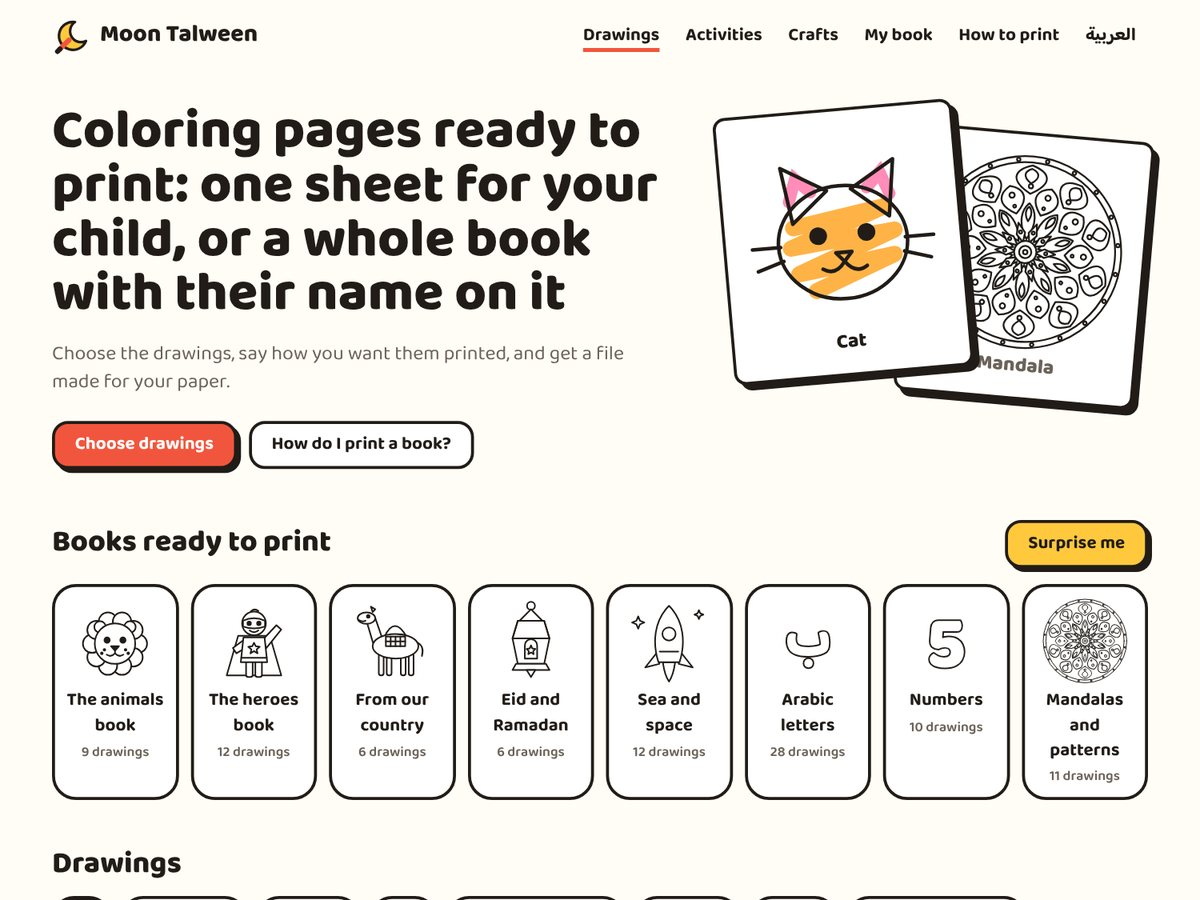
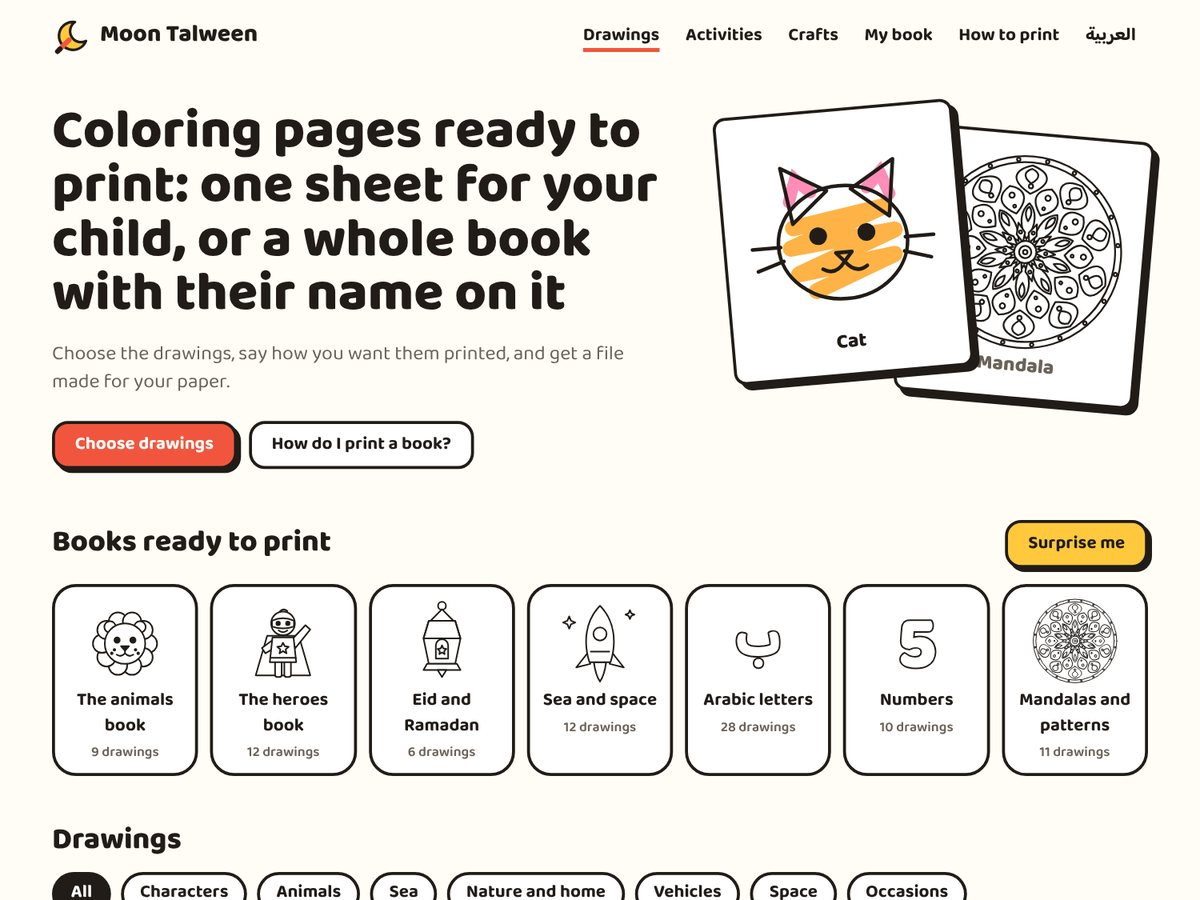
Update the Moon Talween card after a group was removed
Claude-Session: https://claude.ai/code/session_01TkRPnwSefusrgepjoER5a5

Changed region(s): [[0.0308, 0.6222, 0.9558, 1.0]]

diff --git a/app/components/Projects.tsx b/app/components/Projects.tsx
@@ -59,7 +59,7 @@ const projects: Project[] = [
   {
     name: 'Moon Talween, Coloring Pages Ready to Print',
     description:
-      'Coloring pages for children, made to fit the paper: one sheet, two a sheet, or a folded book with the child\'s name on the cover, for printers that print on both sides or one. 58 original drawings, Arabic and English letters, mandalas for older children, and pages made on request such as mazes, color by number and tracing, plus cards, masks and certificates. The page layout, the booklet order and the PDF file are written from scratch and run in the browser. In Arabic and English.',
+      'Coloring pages for children, made to fit the paper: one sheet, two a sheet, or a folded book with the child\'s name on the cover, for printers that print on both sides or one. 52 original drawings, Arabic and English letters, mandalas for older children, and pages made on request such as mazes, color by number and tracing, plus cards, masks and certificates. The page layout, the booklet order and the PDF file are written from scratch and run in the browser. In Arabic and English.',
     stack: ['React', 'Vite', 'React Router', 'Tailwind CSS'],
     image: '/projects/moon-talween.jpg',
     demo: 'https://moon-talween.vercel.app',
